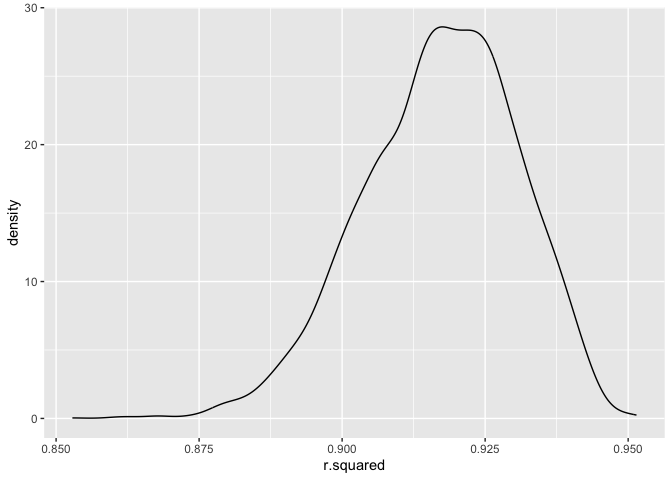
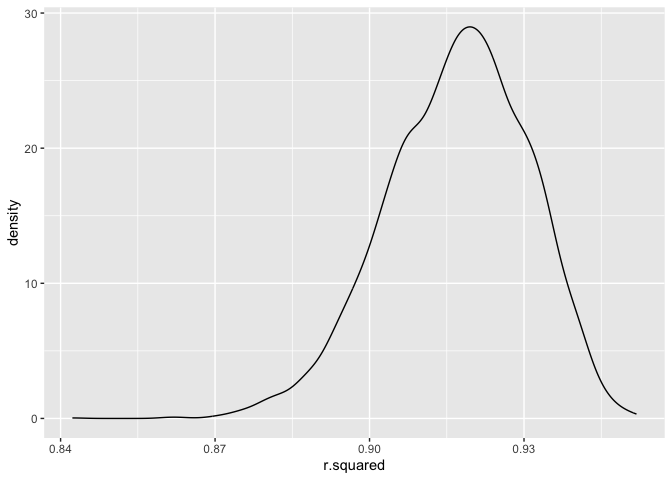
problem 3 first model create

diff --git a/p8105_hw6_xt2288.md b/p8105_hw6_xt2288.md
@@ -18,6 +18,10 @@ library(tidyverse)
     ## ✖ dplyr::lag()    masks stats::lag()
     ## ℹ Use the conflicted package (<http://conflicted.r-lib.org/>) to force all conflicts to become errors
 
+``` r
+library(modelr)
+```
+
 # Problem 1
 
 In the data cleaning code below we create a `city_state` variable,
@@ -210,11 +214,11 @@ weather_data_df |>
   geom_density()
 ```
 
-    ## Warning: Removed 3394 rows containing non-finite values (`stat_density()`).
+    ## Warning: Removed 3322 rows containing non-finite values (`stat_density()`).
 
 ![](p8105_hw6_xt2288_files/figure-gfm/unnamed-chunk-5-1.png)<!-- -->
 
-0.6788% is NA. After removed these NAs. The distribution of
+66.44% is NA. After removed these NAs. The distribution of
 log($\hat{\beta_1} * \hat{\beta_2}$) is left-skewed.
 
 Here is the 95% confidence interval for ${r^2}$.
@@ -224,7 +228,7 @@ quantile(pull(weather_data_df, r.squared), probs = c(0.025, 0.975))
 ```
 
     ##      2.5%     97.5% 
-    ## 0.8888909 0.9404672
+    ## 0.8879077 0.9408722
 
 Here is the 95% confidence interval for
 log($\hat{\beta_1} * \hat{\beta_2}$) after removing the NAs.
@@ -234,8 +238,97 @@ quantile(pull(weather_data_df, log_b1_b2), probs = c(0.025, 0.975), na.rm = TRUE
 ```
 
     ##      2.5%     97.5% 
-    ## -9.035100 -4.547428
+    ## -8.903609 -4.579813
 
 # Problem 3
 
-.
+load and clean the data
+
+``` r
+birthweight = read_csv("data/birthweight.csv") |>
+  mutate(babysex = 
+           case_match(
+             babysex,
+             1 ~ "male",
+             2 ~ "female"),
+         babysex = as.factor(babysex),
+         frace = 
+           case_match(
+             frace,
+             1 ~ "White", 
+             2 ~ "Black", 
+             3 ~ "Asian", 
+             4 ~ "Puerto Rican", 
+             8 ~ "Other", 
+             9 ~ "Unknown"),
+         frace = as.factor(frace),
+         malform = 
+           case_match(
+             malform,
+             0 ~ "absent",
+             1 ~ "present"),
+         malform = as.factor(malform),
+         mrace = 
+           case_match(
+             mrace,
+             1 ~ "White", 
+             2 ~ "Black", 
+             3 ~ "Asian", 
+             4 ~ "Puerto Rican", 
+             8 ~ "Other"),
+         mrace = as.factor(mrace)
+         )
+```
+
+    ## Rows: 4342 Columns: 20
+    ## ── Column specification ────────────────────────────────────────────────────────
+    ## Delimiter: ","
+    ## dbl (20): babysex, bhead, blength, bwt, delwt, fincome, frace, gaweeks, malf...
+    ## 
+    ## ℹ Use `spec()` to retrieve the full column specification for this data.
+    ## ℹ Specify the column types or set `show_col_types = FALSE` to quiet this message.
+
+regression model
+
+``` r
+reg_model = lm(bwt ~ ., data = birthweight)
+
+bwt_model = lm(bwt ~ babysex + bhead + blength + delwt + fincome + gaweeks +mheight + momage + parity + ppwt + smoken, data = birthweight)
+
+# summary(bwt_model)
+```
+
+I first use all variables as predictors. By checking the p-values for
+each predictor, the greatest one will be dropped, as it means the
+predictor is not significant. Repeat this step, until all predictos have
+a p-value less than 0.05.
+
+plot of model residuals against fitted values
+
+``` r
+birthweight |>
+  add_predictions(bwt_model) |>
+  add_residuals(bwt_model) |>
+  ggplot(aes(x = pred, y = resid)) + 
+  geom_point() +
+  labs(title = "Residuals vs. Fitted Values",
+       x = "Fitted Values",
+       y = "Residuals")
+```
+
+![](p8105_hw6_xt2288_files/figure-gfm/unnamed-chunk-10-1.png)<!-- -->
+
+The points are gatherd in the region of 2000-4000 fitted values and
+-1000-1000 residuals.
+
+Compare your model to two others:
+
+One using length at birth and gestational age as predictors (main
+effects only) One using head circumference, length, sex, and all
+interactions (including the three-way interaction) between these Make
+this comparison in terms of the cross-validated prediction error; use
+crossv_mc and functions in purrr as appropriate.
+
+Note that although we expect your model to be reasonable, model building
+itself is not a main idea of the course and we don’t necessarily expect
+your model to be “optimal”.
